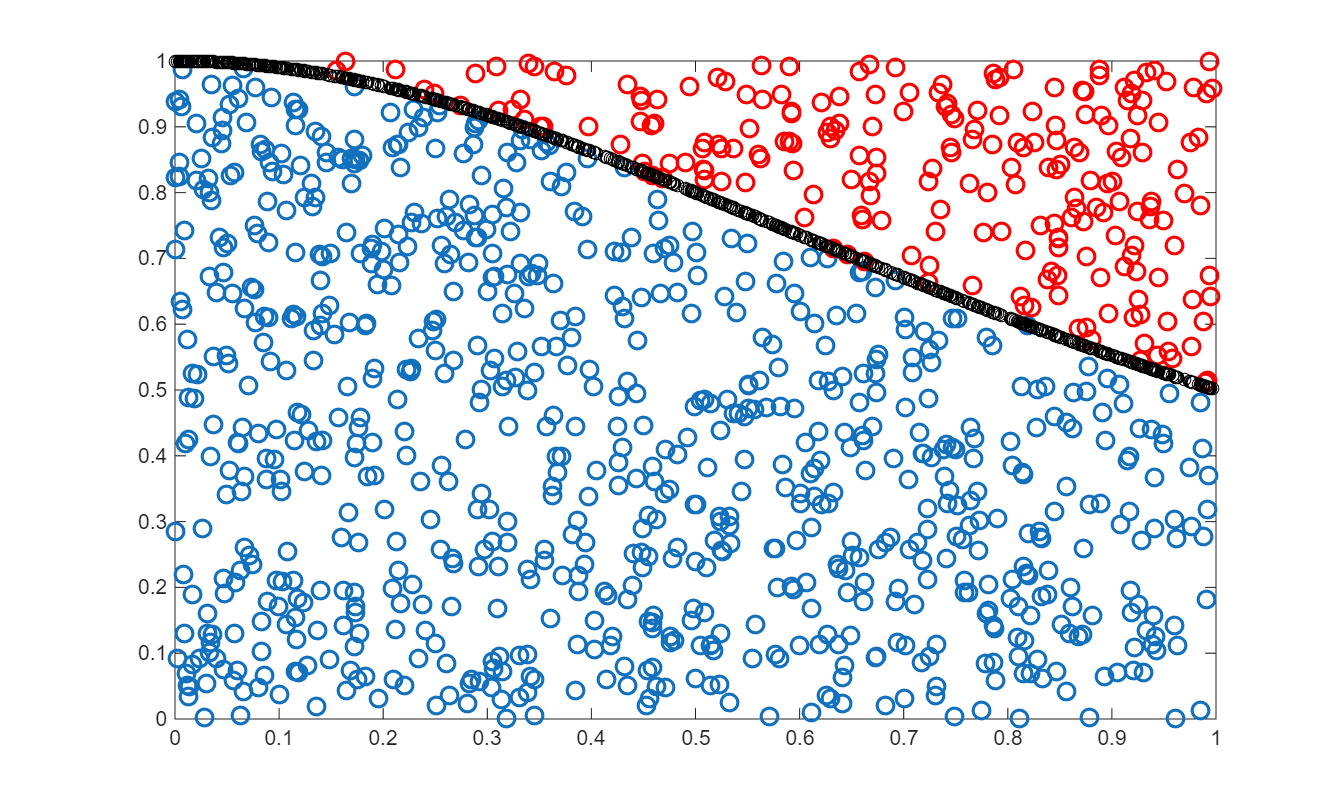
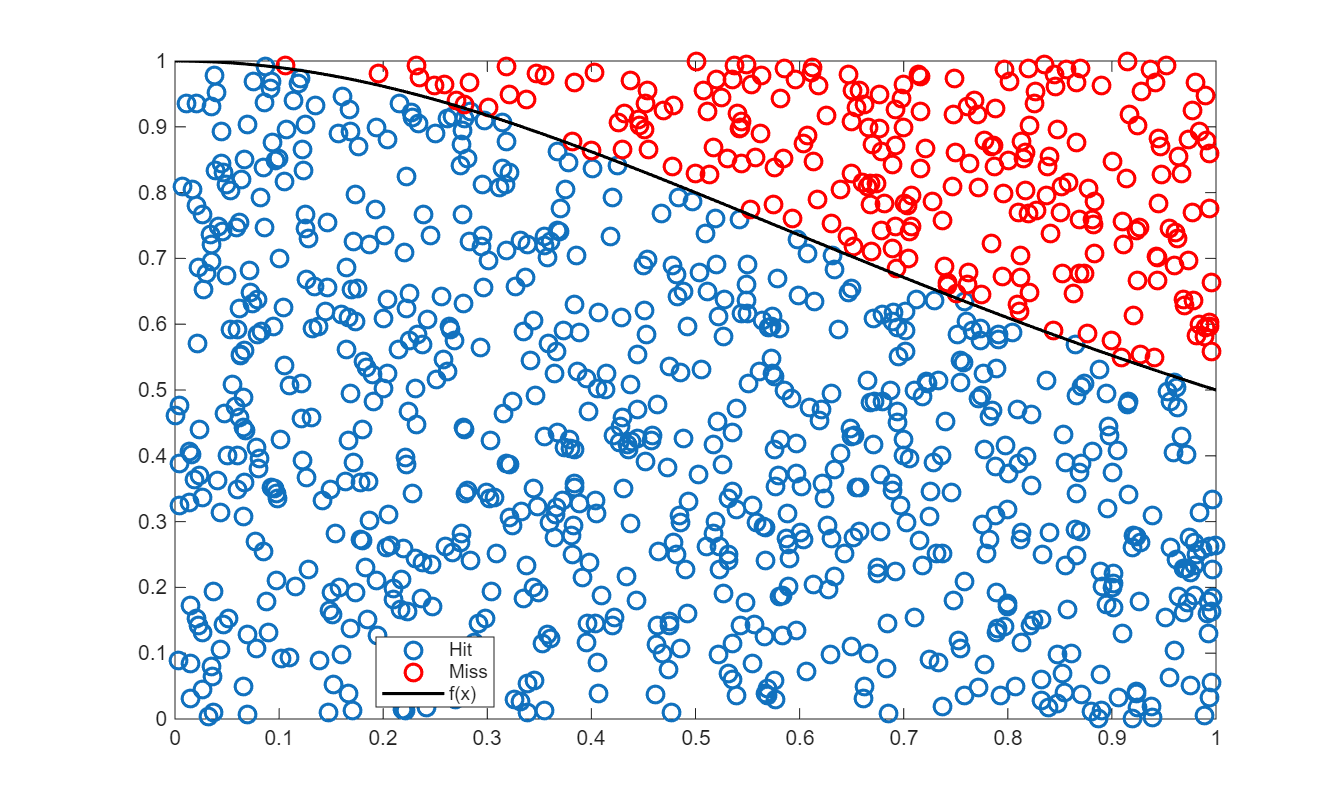
fixed p3

Changed region(s): [[0.125, 0.0619, 0.9062, 0.8973]]

diff --git a/p3_mc_plot.m b/p3_mc_plot.m
@@ -2,6 +2,9 @@ function p3_mc_plot()
 
 [I, Nvals, xrand1, yrand1, xrand2, yrand2, xrand3, yrand3] = p2_mc_integral();
 
+xplot = linspace(0,1,600);
+yplot = 1 ./ (1+ xplot.^2);
+
 x1 = xrand1;
 y1 = yrand1;
 N1 = Nvals(1);
@@ -100,24 +103,27 @@ a = figure("Name","N = 100")
 plot(xhit1,yhit1, 'o', 'LineStyle', 'none', 'MarkerSize', 8, 'LineWidth',1.5);
 hold on
 plot(xmiss1,ymiss1, 'or', 'LineStyle', 'none', 'MarkerSize', 8, 'LineWidth',1.5);
-plot(x1 , fx1, 'ok')
+plot(xplot , yplot, 'k','LineWidth', 1.5)
 hold off
+legend('Hit','Miss','f(x)','Location','best')
 saveas(a, 'p3_N100.png')
 
 b = figure("Name","N = 1000")
 plot(xhit2,yhit2, 'o', 'LineStyle', 'none', 'MarkerSize', 8, 'LineWidth',1.5);
 hold on
 plot(xmiss2,ymiss2, 'or', 'LineStyle', 'none', 'MarkerSize', 8, 'LineWidth',1.5);
-plot(x2 , fx2, 'ok')
+plot(xplot , yplot, 'k','LineWidth', 1.5)
 hold off
+legend('Hit','Miss','f(x)','Location','best')
 saveas(b, 'p3_N1000.png')
 
 c = figure("Name","N = 10000")
 plot(xhit3,yhit3, 'o', 'LineStyle', 'none', 'MarkerSize', 8, 'LineWidth',1.5);
 hold on
 plot(xmiss3,ymiss3, 'or', 'LineStyle', 'none', 'MarkerSize', 8, 'LineWidth',1.5);
-plot(x3 , fx3, '-k','MarkerSize', 8)
+plot(xplot , yplot, 'k','LineWidth', 1.5)
 hold off
+legend('Hit','Miss','f(x)','Location','best')
 saveas(c, 'p3_N10000.png')
 
 end
